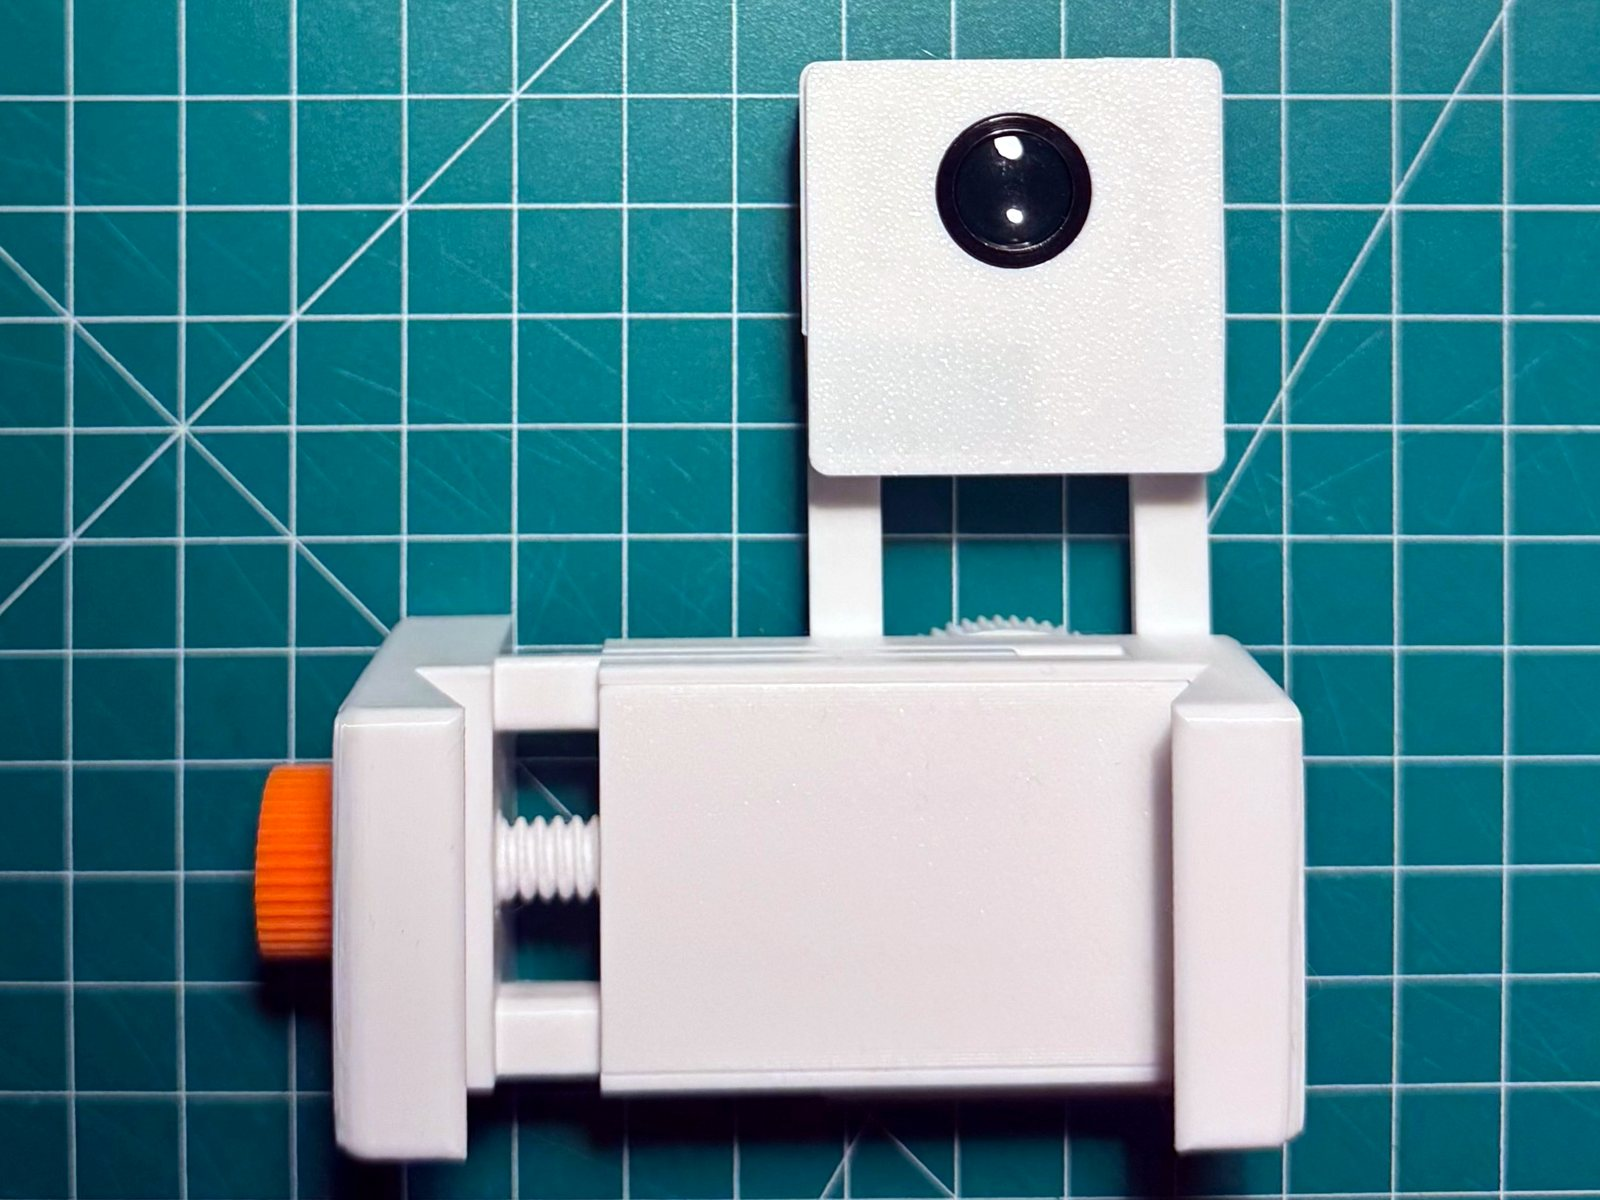
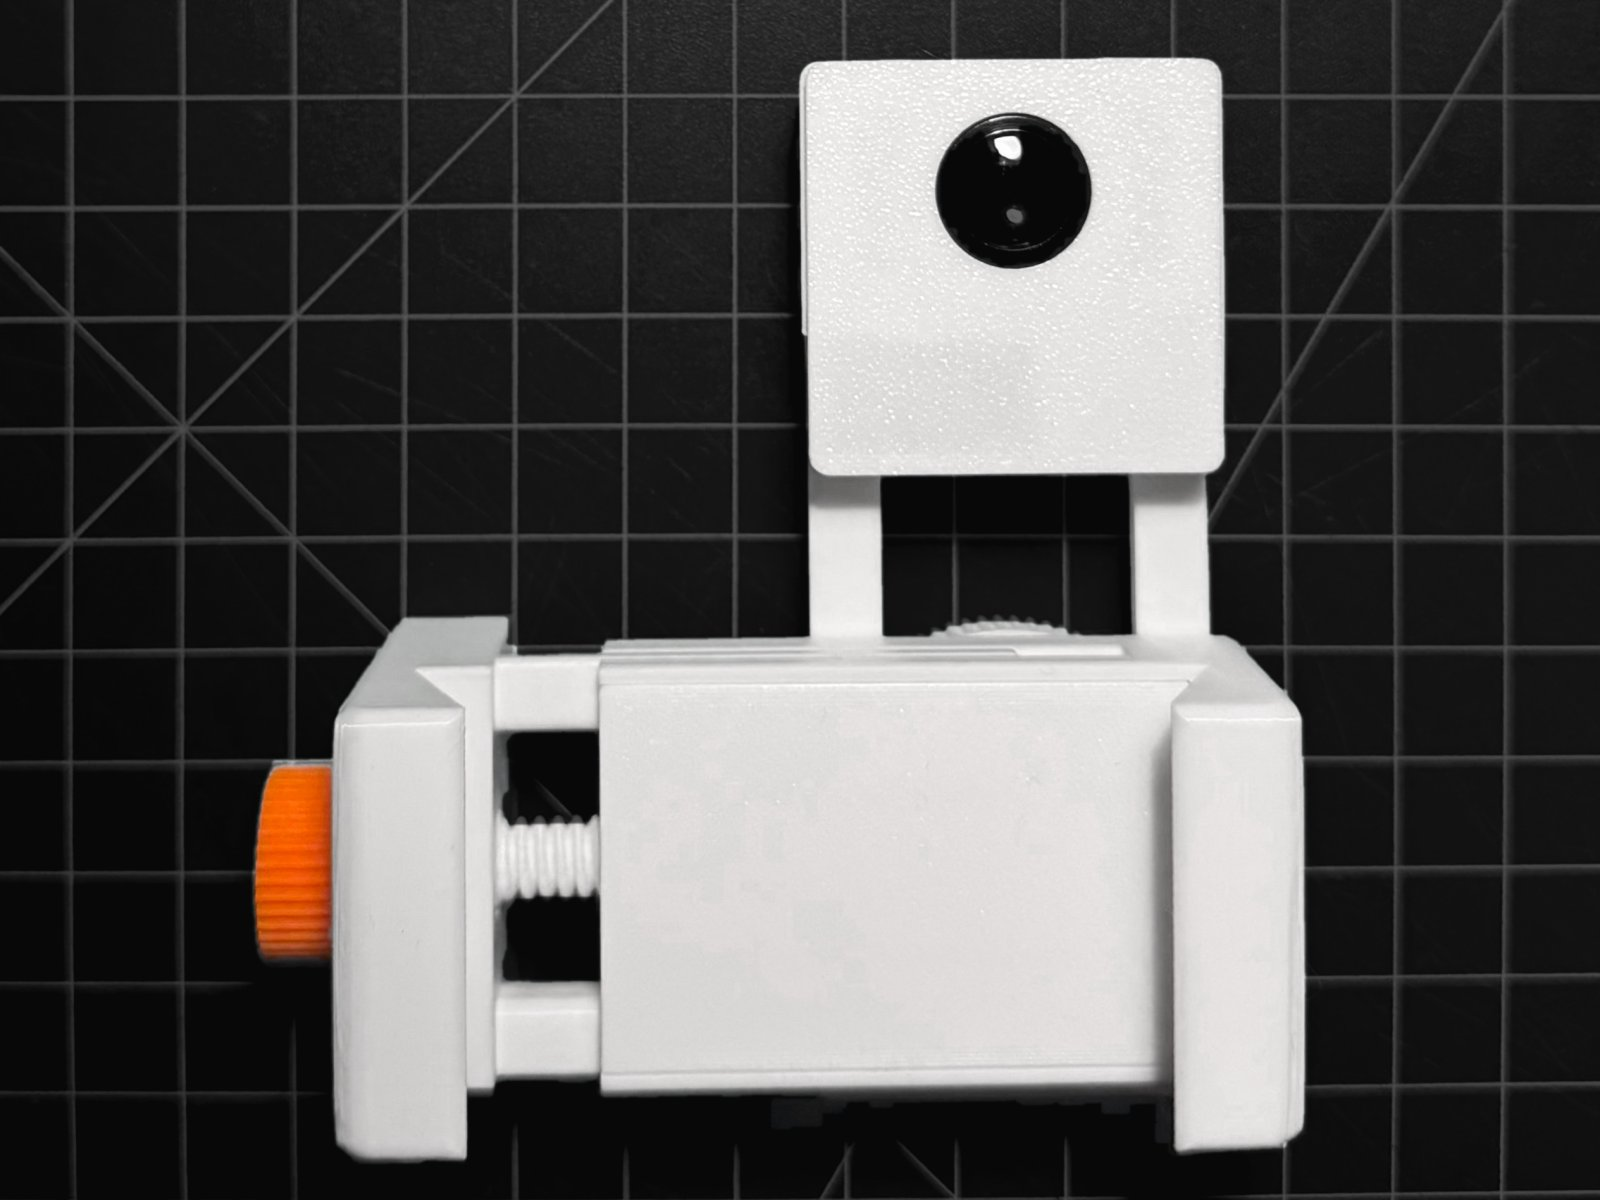
VectorCam 2: match model and photo framing; dark neutral mat in photo
3D view frames the assembly to 90% (data-fill) so it sits at the same
scale as the photo. Photo: cutting mat recoloured to dark neutral grey
with the grid kept, plastic neutralised, orange knob kept.

Claude-Session: https://claude.ai/code/session_018HqdxKVMnZJugJVamVY5ug

diff --git a/index.html b/index.html
@@ -177,7 +177,7 @@ footer{display:flex;justify-content:space-between;gap:12px;flex-wrap:wrap;border
     <div class="gallery">
       <figure>
         <div class="frame">
-          <div class="model" data-stl="models/VectorCam2-assembly.stl" data-az="1.46" data-el="1.50" data-rotate="false" role="img" aria-label="3D model of the assembled VectorCam 2, seen from above">
+          <div class="model" data-stl="models/VectorCam2-assembly.stl" data-az="1.46" data-el="1.50" data-fill="0.9" data-rotate="false" role="img" aria-label="3D model of the assembled VectorCam 2, seen from above">
             <img src="images/vectorcam2-assembly.jpg" alt="" width="1200" height="900" loading="lazy">
           </div>
         </div>
@@ -553,7 +553,7 @@ function mount(box) {
       const up = new THREE.Vector3().setFromMatrixColumn(camera.matrixWorld, 1);
       const shift = right.multiplyScalar((x0 + x1) / 2 * halfW).add(up.multiplyScalar((y0 + y1) / 2 * halfH));
       target.add(shift); camera.position.add(shift);
-      const fill = Math.max((x1 - x0) / 2, (y1 - y0) / 2) / 0.85;
+      const fill = Math.max((x1 - x0) / 2, (y1 - y0) / 2) / parseFloat(box.dataset.fill || 0.85);
       camera.position.sub(target).multiplyScalar(fill).add(target);
     }
     camera.near = d / 50; camera.far = d * 10; camera.updateProjectionMatrix();
